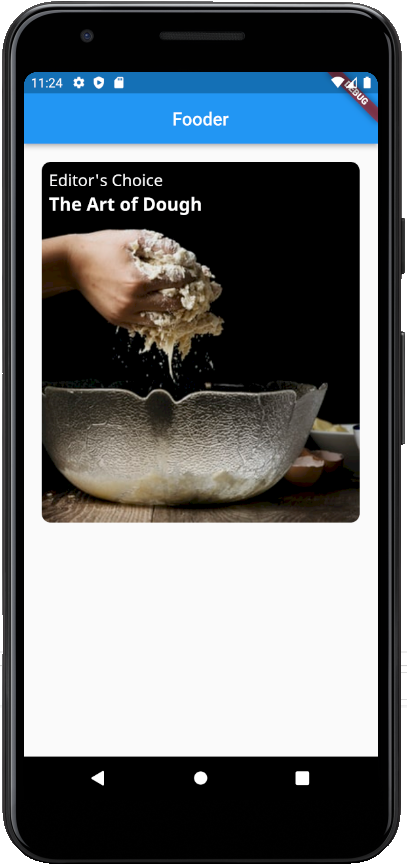
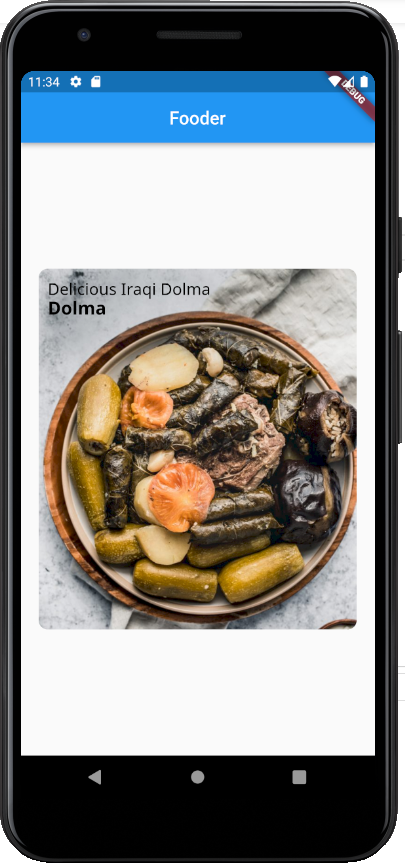
completed 2nd task

diff --git a/lib/screens/homescreen.dart b/lib/screens/homescreen.dart
@@ -1,0 +1,56 @@
+import 'package:flutter/material.dart';
+import 'package:google_fonts/google_fonts.dart';
+import 'package:flutter_task_1/models/recipe.dart';
+import 'package:flutter_task_1/screens/recipescreen.dart';
+import 'package:flutter_task_1/widgets/item_box.dart';
+
+class HomeScreen extends StatelessWidget {
+  const HomeScreen({
+    Key? key,
+    required this.recipe,
+  }) : super(key: key);
+
+  final Recipe recipe;
+
+  @override
+  Widget build(BuildContext context) {
+    return GestureDetector(
+      onTap: () {
+        Navigator.of(context).push(MaterialPageRoute(
+            builder: (context) => RecipeScreen(
+                  recipe: recipe,
+                )));
+      },
+      child: Scaffold(
+          appBar: AppBar(
+            title: const Text("Fooder"),
+            centerTitle: true,
+          ),
+          body: Padding(
+            padding: const EdgeInsets.all(20.0),
+            child: Center(
+              child: Stack(children: [
+                ItemBox(
+                  recipe: recipe,
+                ),
+                Positioned(
+                  top: 10,
+                  left: 10,
+                  child: Text(recipe.subtitle,
+                      style: GoogleFonts.notoSans(
+                          fontSize: 18, color: Colors.black)),
+                ),
+                Positioned(
+                    top: 30,
+                    left: 10,
+                    child: Text(recipe.title,
+                        style: GoogleFonts.notoSans(
+                            fontSize: 20,
+                            color: Colors.black,
+                            fontWeight: FontWeight.bold)))
+              ]),
+            ),
+          )),
+    );
+  }
+}

diff --git a/lib/screens/recipescreen.dart b/lib/screens/recipescreen.dart
@@ -1,0 +1,38 @@
+import 'package:flutter/material.dart';
+import 'package:flutter_task_1/models/ingredients.dart';
+import 'package:flutter_task_1/models/recipe.dart';
+import 'package:flutter_task_1/widgets/ingredientrow.dart';
+
+class RecipeScreen extends StatelessWidget {
+  const RecipeScreen({
+    Key? key,
+    required this.recipe,
+  }) : super(key: key);
+
+  final Recipe recipe;
+
+  @override
+  Widget build(BuildContext context) {
+    return Scaffold(
+      appBar: AppBar(
+          leading: IconButton(
+              onPressed: () {
+                Navigator.of(context).pop();
+              },
+              icon: const Icon(Icons.arrow_back)),
+          title: Column(children: [
+            Text(recipe.title),
+            Text(
+              recipe.subtitle,
+              style: const TextStyle(fontSize: 16),
+            )
+          ]),
+          centerTitle: true),
+      body: ListView.builder(
+          itemCount: 3,
+          itemBuilder: (context, index) {
+            return IngredientRow(ingredient: Ingredient.ingredients[index]);
+          }),
+    );
+  }
+}

diff --git a/lib/widgets/ingredientrow.dart b/lib/widgets/ingredientrow.dart
@@ -1,0 +1,33 @@
+import 'package:flutter/material.dart';
+import 'package:flutter_task_1/models/ingredients.dart';
+import 'package:google_fonts/google_fonts.dart';
+
+class IngredientRow extends StatelessWidget {
+  const IngredientRow({
+    Key? key,
+    required this.ingredient,
+  }) : super(key: key);
+
+  final Ingredient ingredient;
+
+  @override
+  Widget build(BuildContext context) {
+    return Padding(
+      padding: const EdgeInsets.all(8.0),
+      child: Card(
+          shape: RoundedRectangleBorder(
+              borderRadius: BorderRadius.circular(10),
+              side: const BorderSide(color: Colors.black, width: 1)),
+          child: SizedBox(
+            height: 50,
+            width: double.infinity,
+            child: Center(
+              child: Text(
+                  '${ingredient.quantity} ${ingredient.mesuringUnit} ${ingredient.name}',
+                  style:
+                      GoogleFonts.notoSans(fontSize: 18, color: Colors.black)),
+            ),
+          )),
+    );
+  }
+}

diff --git a/lib/main.dart b/lib/main.dart
@@ -1,0 +1,32 @@
+import 'package:flutter/material.dart';
+import 'package:flutter_task_1/models/recipe.dart';
+import 'package:flutter_task_1/screens/homescreen.dart';
+
+void main() {
+  var dolma = Recipe(
+    title: 'Dolma',
+    subtitle: 'Delicious Iraqi Dolma',
+    imageUrl: 'assets/images/1.jpeg',
+  );
+
+  runApp(Fooder(
+    recipe: dolma,
+  ));
+}
+
+class Fooder extends StatelessWidget {
+  const Fooder({
+    Key? key,
+    required this.recipe,
+  }) : super(key: key);
+
+  final Recipe recipe;
+
+  @override
+  Widget build(BuildContext context) {
+    return MaterialApp(
+        home: HomeScreen(
+      recipe: recipe,
+    ));
+  }
+}

diff --git a/lib/widgets/item_box.dart b/lib/widgets/item_box.dart
@@ -1,0 +1,22 @@
+import 'package:flutter/material.dart';
+import 'package:flutter_task_1/models/recipe.dart';
+
+class ItemBox extends StatelessWidget {
+  const ItemBox({Key? key, required this.recipe}) : super(key: key);
+
+  final Recipe recipe;
+
+  @override
+  Widget build(BuildContext context) {
+    return ClipRRect(
+      borderRadius: BorderRadius.circular(10),
+      child: Image.asset(
+        recipe.imageUrl,
+        width: double.infinity,
+        height: 400,
+        fit: BoxFit.fitWidth,
+        alignment: AlignmentDirectional.topStart,
+      ),
+    );
+  }
+}

diff --git a/lib/models/ingredients.dart b/lib/models/ingredients.dart
@@ -1,0 +1,13 @@
+class Ingredient {
+  String name = '';
+  double quantity = 0;
+  String mesuringUnit = '';
+
+  static List<Ingredient> ingredients = [
+    Ingredient('Eggplant', 0.5, 'Kg'),
+    Ingredient('Onion', 0.5, 'Kg'),
+    Ingredient('Tomato', 0.5, 'Kg')
+  ];
+
+  Ingredient(this.name, this.quantity, this.mesuringUnit);
+}

diff --git a/lib/models/recipe.dart b/lib/models/recipe.dart
@@ -1,0 +1,11 @@
+class Recipe {
+  String title = '';
+  String subtitle = '';
+  String imageUrl = '';
+
+  Recipe({
+    required this.title,
+    required this.subtitle,
+    required this.imageUrl,
+  });
+}
